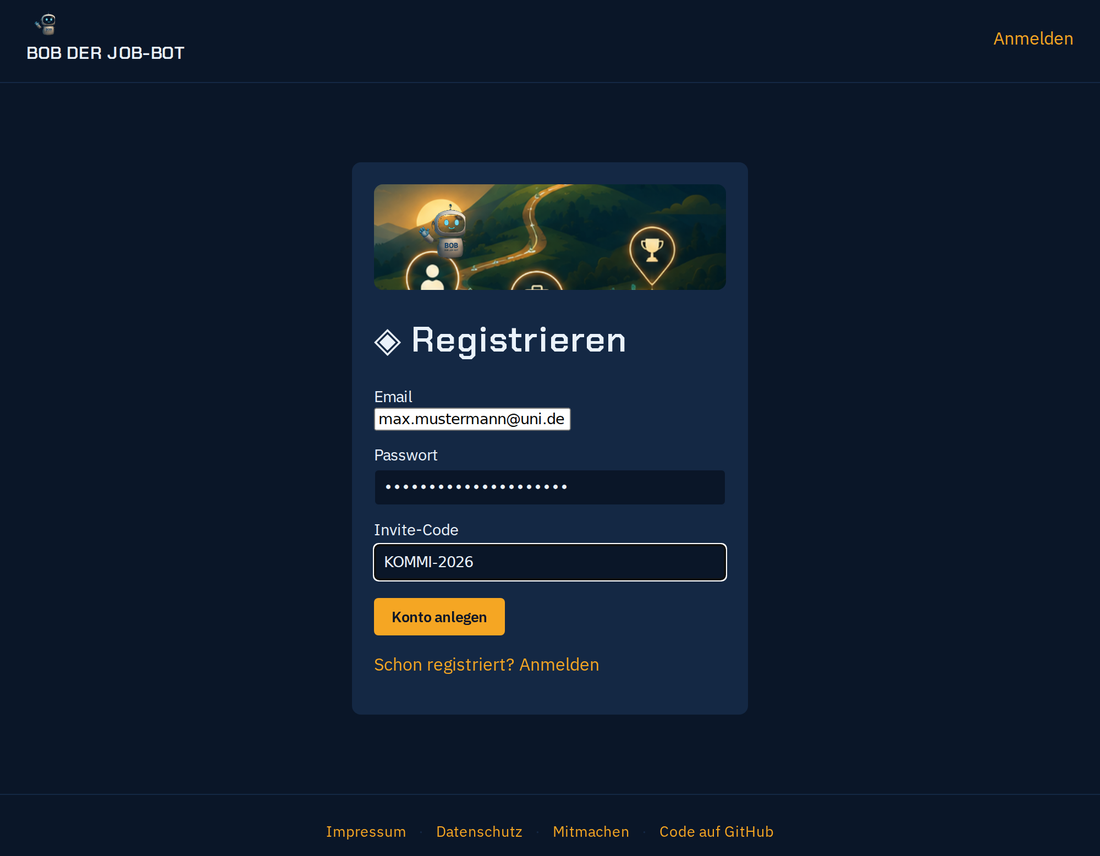
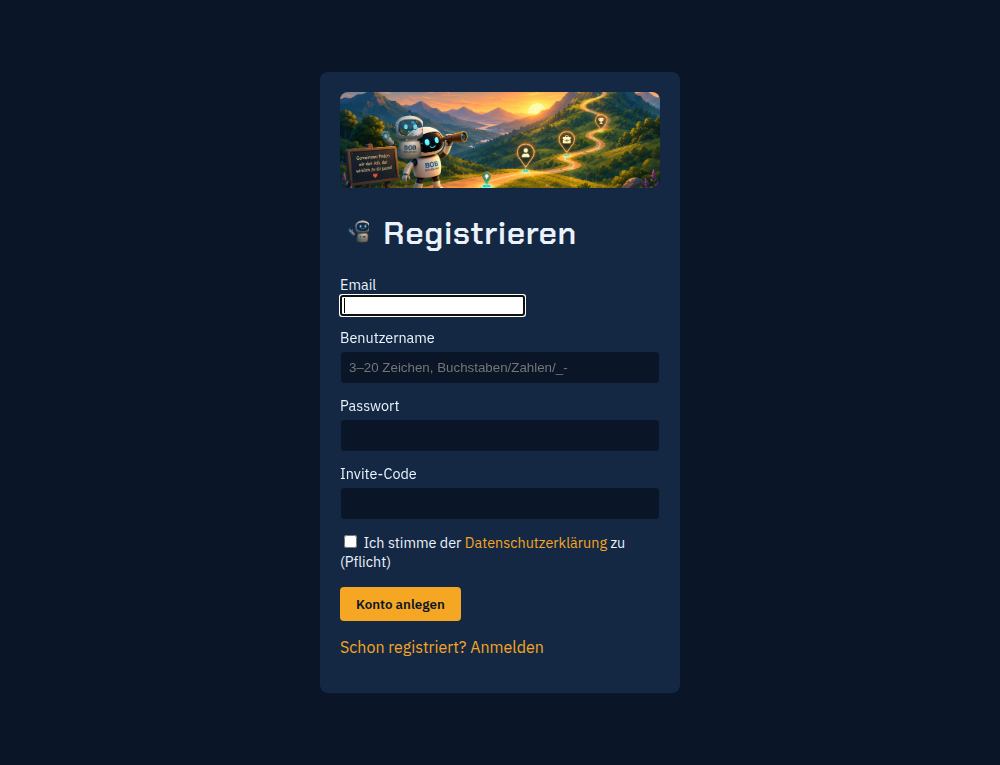
fix(job-scanner): Anleitungs-Screenshots neu — Registrierung mit Benutzername+Consent, Token-UI nach Redesign, Adzuna-Ist-Stand

diff --git a/jobscanner/web/templates/hilfe.html b/jobscanner/web/templates/hilfe.html
@@ -126,7 +126,7 @@
     <h2>API-Token holen</h2>
   </div>
   <p>Das Token verbindet dein Claude mit Bob. Öffne in der Sidebar
-    <strong>⚙ Einstellungen</strong> → Reiter <strong>„API-Token"</strong> →
+    <strong>⚙ Einstellungen</strong> → Reiter <strong>„Anbindungen"</strong> →
     <strong>„API-Token erzeugen"</strong>.</p>
 
   <figure class="anl-shot">
